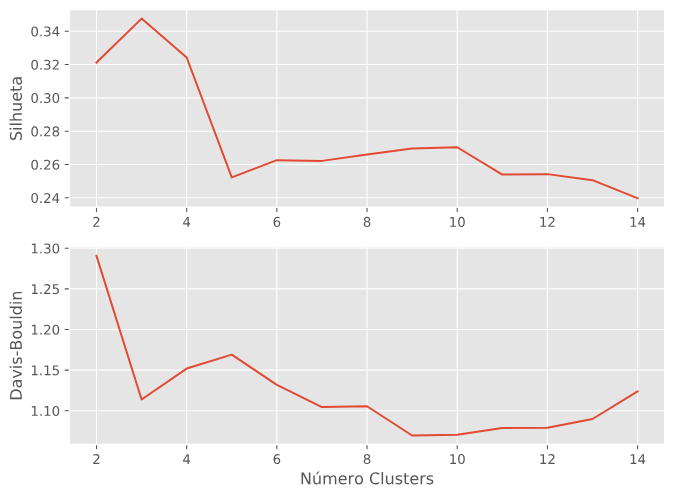
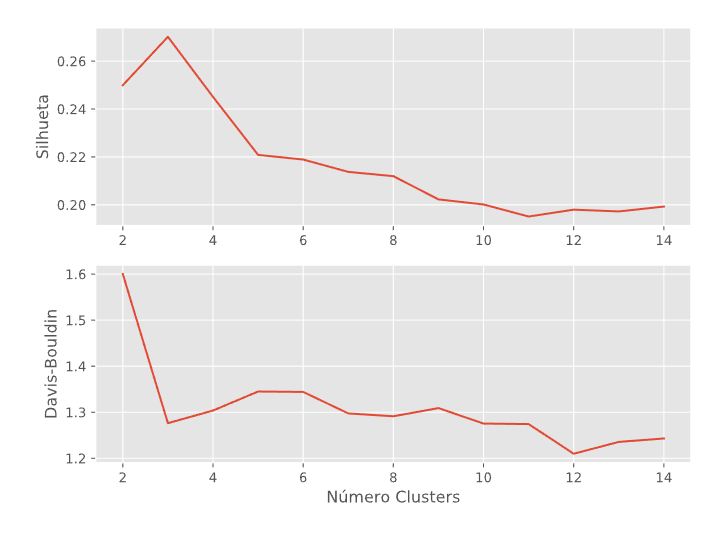
new_plots

diff --git a/mapping.py b/mapping.py
@@ -1,0 +1,72 @@
+#%% Libraries
+import pandas as pd
+import matplotlib.pyplot as plt
+import numpy as np
+np.set_printoptions(suppress=True)
+plt.style.use('ggplot')
+
+#%% Load Data                                                                                                                                                                                                                                                                                                                                                                                                                                                                                                                                                                                                                                                                                                                                                                                                                                                                                                                                                                                                                                   #%% Data load
+res = pd.read_csv('props_new\\cluster_reorder.csv')
+
+#%%Defining good constants to plot.
+med_i = np.median(res['celli'])
+med_j = np.median(res['cellj'])
+med_k = np.median(res['cellk'])
+
+res['cluster 1 ou 2'] = 1-res['cluster 0']
+
+#%% Functions
+
+def plot_section(df,const_col,const_val,x,y,color_dim,orientation,line=None,plot_type=None,num_colors=None,cmap='magma',sz=15,savefile=None):
+    plot_data = df.loc[df[const_col] == const_val]
+
+    if orientation == 'depth':
+        plt.figure(figsize=[8,8])
+    elif orientation == 'vertical':
+        plt.figure(figsize=[10,2])
+
+    if plot_type == 'discrete': 
+        c_map = plt.get_cmap(cmap, num_colors)
+        plt.scatter(plot_data[x],plot_data[y],c=plot_data[color_dim],cmap=c_map,s=sz)
+        plt.colorbar(ticks=range(num_colors),label=color_dim)
+    elif plot_type == 'continuous':
+        plt.scatter(plot_data[x],plot_data[y],c=plot_data[color_dim],cmap=cmap,s=sz)
+        plt.colorbar(label=color_dim)
+    if line != None:
+        plt.plot(linex,liney,c='b')
+
+    
+    plt.xlabel(x)
+    plt.ylabel(y)
+    
+    plt.show()
+
+
+#%%
+plot_section(res,'cellk',med_k,'xcoord','ycoord','cluster 0','depth',plot_type='continuous')
+plot_section(res,'cellk',med_k,'xcoord','ycoord','cluster 1','depth',plot_type='continuous')
+plot_section(res,'cellk',med_k,'xcoord','ycoord','cluster 2','depth',plot_type='continuous')
+plot_section(res,'cellk',med_k,'xcoord','ycoord','cluster 1 ou 2','depth',plot_type='continuous')
+plot_section(res,'cellk',med_k,'xcoord','ycoord','GMM','depth',plot_type='discrete',num_colors=3)
+plot_section(res,'cellk',med_k,'xcoord','ycoord','KMeans','depth',plot_type='discrete',num_colors=3)
+plot_section(res,'cellk',med_k,'xcoord','ycoord','sw','depth',plot_type='continuous')
+plot_section(res,'cellk',med_k,'xcoord','ycoord','phie','depth',plot_type='continuous')
+plot_section(res,'cellk',med_k,'xcoord','ycoord','rhob','depth',plot_type='continuous')
+plot_section(res,'cellk',med_k,'xcoord','ycoord','gr','depth',plot_type='continuous')
+plot_section(res,'cellk',med_k,'xcoord','ycoord','dt','depth',plot_type='continuous')
+
+#%%
+plot_section(res,'cellj',med_j,'xcoord','zcoord','cluster 0','vertical',plot_type='continuous')
+plot_section(res,'cellj',med_j,'xcoord','zcoord','cluster 1','vertical',plot_type='continuous')
+plot_section(res,'cellj',med_j,'xcoord','zcoord','cluster 2','vertical',plot_type='continuous')
+plot_section(res,'cellj',med_j,'xcoord','zcoord','cluster 1 ou 2','vertical',plot_type='continuous')
+plot_section(res,'cellj',med_j,'xcoord','zcoord','GMM','vertical',plot_type='discrete',num_colors=3)
+plot_section(res,'cellj',med_j,'xcoord','zcoord','KMeans','vertical',plot_type='discrete',num_colors=3)
+plot_section(res,'cellj',med_j,'xcoord','zcoord','sw','vertical',plot_type='continuous')
+plot_section(res,'cellj',med_j,'xcoord','zcoord','phie','vertical',plot_type='continuous')
+plot_section(res,'cellj',med_j,'xcoord','zcoord','rhob','vertical',plot_type='continuous')
+plot_section(res,'cellj',med_j,'xcoord','zcoord','gr','vertical',plot_type='continuous')
+plot_section(res,'cellj',med_j,'xcoord','zcoord','dt','vertical',plot_type='continuous')
+
+
+# %%

diff --git a/volumes.py b/volumes.py
@@ -1,0 +1,90 @@
+#%%
+import pandas as pd
+import numpy as np
+from campob.pycode.fun import gridTools
+
+#%%
+def vol_case(frame,phiE,sW,NG): 
+    dX = frame['dx']
+    dY = frame['dy']
+    dZ = frame['dz']
+    vb = dX*dY*dZ
+    vp = vb*phiE
+    oip = vp*sW
+    hcpv = oip*NG 
+    return np.sum(vb), np.sum(vp), np.sum(oip), np.sum(hcpv)
+
+#%%
+melani = gridTools.get_prop_array('campob\\props\\campob_PROP_TOT_PAYFLAG.GRDECL')
+owc = gridTools.get_prop_array('campob\\props\\campob_PROP_OIL_WATER_CONTACT.GRDECL')
+region = gridTools.get_prop_array('campob\\props\\campob_PROP_REGIONS_ALL_ZONES.GRDECL')
+dic = {"melani":melani,"owc":owc,"region":region}
+temp = pd.DataFrame(dic)
+temp = temp.loc[temp['region'] == 2]
+temp = temp.loc[temp['owc'] > 0 ]
+
+#%% New columns
+data = pd.read_csv('campob\\csv_correcao\\cluster_reorder.csv')
+data['ng melani'] = temp['melani'].values
+
+percs=[50,75,90]
+perc_ngs=[0]*len(percs)
+for i,per in enumerate(percs):
+    sws = data['SW']
+    phs = data['phie']
+    cut_sw = np.percentile(data['SW'],(100-per))
+    cut_ph = np.percentile(data['phie'],per)
+    bool_sw = sws < cut_sw
+    bool_ph = phs > cut_ph
+    ng_bool = ((bool_ph == True) & (bool_sw==True))*1
+    data['NG perc '+str(per)] = ng_bool
+
+data['cluster 1-2'] = 1-data['cluster 0']
+
+#%%
+vols=[]
+#Case 0 - Melani et al 2015 NG
+vols.append(vol_case(data,data['phie'],data['SW'],data['ng melani']))
+#Case 1 - Total volume
+vols.append(vol_case(data,data['phie'],data['SW'],1))
+#Case 2 - Total Volume - Constant porosity
+vols.append(vol_case(data,np.mean(data['phie']),data['SW'],1))
+#Case 3 - Total volume - Constant SW
+vols.append(vol_case(data,data['phie'],np.mean(data['SW']),1))
+#Case 4-6 - 50-75-90 Percentile NGs
+vols.append(vol_case(data,data['phie'],data['SW'],data['NG perc 50']))
+vols.append(vol_case(data,data['phie'],data['SW'],data['NG perc 75']))
+vols.append(vol_case(data,data['phie'],data['SW'],data['NG perc 90']))
+#Case 7 - GMM Probability not class 0
+vols.append(vol_case(data,data['phie'],data['SW'],1-data['cluster 1-2']))
+#Case 8-13 - Vol classes
+ks = range(3)
+algos = ['KMeans','GMM']
+for algo in algos:
+    for k in ks:
+        slc = data.loc[data[algo] == k]
+        vols.append(vol_case(slc,slc['phie'],slc['SW'],1))
+
+#%%
+vols = pd.DataFrame(vols)
+vols.columns=['Vb','Vp','OIP','HCPV']
+cases = ['Melani',
+        'Volume Total',
+        'Volume Total - Porosidade Constante (Valor médio)',
+        'Volume Total - Saturação de Água Constante (Valor médio)',
+        'NG 50%',
+        'NG 75%',
+        'NG 90%',
+        'NG = GMM P\'(0)',
+        'Kmeans 0',
+        'Kmeans 1',
+        'Kmeans 2',
+        'GMM 0',
+        'GMM 1',
+        'GMM 2']
+vols['Case'] = pd.Series(cases)
+
+#%%
+vols.to_csv('campob\\csv_outs\\volume_cases.csv')
+
+# %%

diff --git a/clustering.py b/clustering.py
@@ -1,0 +1,85 @@
+#%% Libraries
+
+import pandas as pd
+import matplotlib.pyplot as plt
+from mpl_toolkits import mplot3d
+import seaborn as sns
+import numpy as np
+import os
+from tqdm.auto import tqdm
+from sklearn.mixture import GaussianMixture
+from sklearn.metrics import davies_bouldin_score, silhouette_score
+from sklearn.cluster import KMeans
+from sklearn.preprocessing import StandardScaler
+np.set_printoptions(suppress=True)
+plt.style.use('ggplot')
+#%%Data loading
+res = pd.read_csv('props_new\\res.csv')
+resRock = res[['dt','gr','phie','rhob']]
+
+#%% Clustering
+scaler = StandardScaler()
+
+data = scaler.fit_transform(resRock)
+
+#%%
+max_k=15
+wcss=[]
+dbs=[]
+sil=[]
+k_range = range(2,max_k)
+for k in tqdm(k_range):
+    kmeans = KMeans(n_clusters=k)
+    temp_pred = kmeans.fit_predict(data)
+    wcss_k = kmeans.inertia_
+    wcss.append(wcss_k)
+    dbs.append(davies_bouldin_score(data,temp_pred))
+    sil.append(silhouette_score(data,temp_pred))
+
+#%% Plotting DBScores and Silhouette for optimal k
+plt.figure(figsize=[8,6])
+plt.subplot(2,1,1)
+plt.plot(k_range,sil)
+plt.ylabel("Silhueta")
+plt.subplot(2,1,2)
+plt.plot(k_range,dbs)
+plt.ylabel("Davis-Bouldin")
+plt.xlabel('Número Clusters')
+
+
+
+#%% Making both measures into a single one towards finding optimal K
+db_std  = scaler.fit_transform(np.array(dbs).reshape(-1, 1))
+sil_std = scaler.fit_transform(np.array(sil).reshape(-1, 1))
+combined = db_std-sil_std
+
+plt.figure(figsize=[8,3])
+plt.plot(k_range,combined)
+plt.ylabel("Silhueta - Davies-Bouldin (Escalado)")
+plt.xlabel('Número Clusters')
+
+#%% Optimal K
+opt_k = k_range[np.where(combined == np.min(combined))[0][0]]
+
+#%% Redo clustering now with optimal K clusters
+
+kmeans = KMeans(n_clusters=opt_k)
+gmm = GaussianMixture(n_components=opt_k)
+
+gmm.fit(data)
+pred_g = gmm.predict(data)
+prob_g = gmm.predict_proba(data)
+pred_k = kmeans.fit_predict(data)
+
+#%% Passing predictions to DF
+res['KMeans'] = pd.Series(pred_k)
+res['GMM'] = pd.Series(pred_g)
+for i in range(opt_k):
+     col_name = "cluster "+str(i)
+     res[col_name] = prob_g.T[i]
+
+res.to_csv('props_new\\cluster.csv')
+
+
+
+# %%

diff --git a/cluster_stats.py b/cluster_stats.py
@@ -1,0 +1,57 @@
+#%% Libraries
+import pandas as pd
+import numpy as np
+np.set_printoptions(suppress=True)
+pd.set_option('mode.chained_assignment', None)
+
+#%% Data load
+res = pd.read_csv('props_new\\cluster.csv')
+
+#%% Define datasets, reorder clusters in order of Porosity
+gmm = res[['dt','gr','phie','rhob','GMM']]
+kme = res[['dt','gr','phie','rhob','KMeans']]
+
+kme_describe=kme.groupby('KMeans').describe()
+gmm_describe=gmm.groupby('GMM').describe()
+
+kme_phi = kme_describe[[('phie',  'mean')]]
+originalOrderK = list(kme_phi.index)
+sortedK = kme_phi.sort_values(('phie','mean'))
+newOrderK = list(sortedK.index)
+swapK = dict(zip(originalOrderK,newOrderK))
+
+gmm_phi = gmm_describe[[('phie',  'mean')]]
+originalOrderG = list(gmm_phi.index)
+sortedG = gmm_phi.sort_values(('phie',  'mean'))
+newOrderG = list(sortedG.index)
+swapG = dict(zip(originalOrderG,newOrderG))
+
+gmm['GMM'] = gmm['GMM'].map(swapG)
+kme['KMeans'] = kme['KMeans'].map(swapK)
+
+res['GMM'] = gmm['GMM']
+res['KMeans'] = kme['KMeans']
+
+newNames=[]
+oldNames=[]
+for i,oldName in enumerate(list(swapG.keys())):
+    oldNames.append('cluster '+str(oldName))
+    newNames.append('cluster '+str(list(swapG.values())[i]))
+
+swapNames = dict(zip(oldNames,newNames))
+
+res = res.rename(swapNames)
+
+
+
+#%% Redo cluster stats
+gmm = res[['dt','gr','phie','rhob','GMM']]
+kme = res[['dt','gr','phie','rhob','KMeans']]
+kme_describe=kme.groupby('KMeans').describe()
+gmm_describe=gmm.groupby('GMM').describe()
+
+#%% Save files
+res.to_csv('props_new\\cluster_reorder.csv')
+kme_describe.to_csv('props_new\\kme_stats.csv')
+gmm_describe.to_csv('props_new\\gmm_stats.csv')
+#%%
